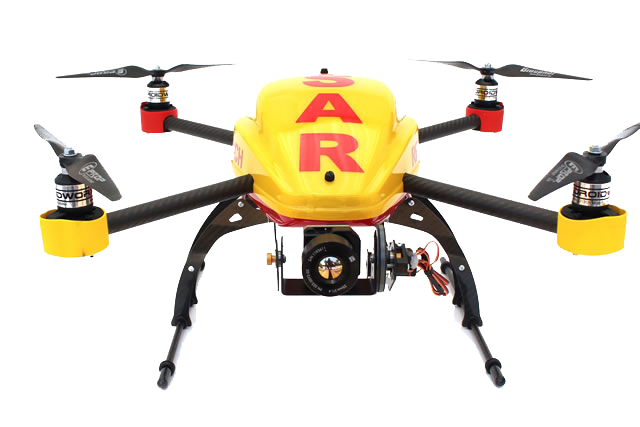
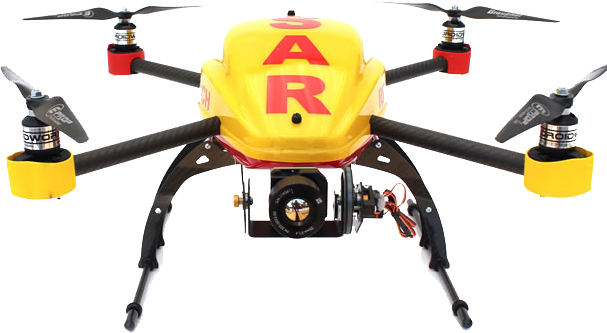
Major Changes - 13-6-17
-Added trackable camera
-Scaled the physics world down to 50% its original size.
-Readjusted density and mass calculations.
- Readjusted controls.
-Added angular air resistance.
-Fixed collisions on UAV model.

diff --git a/core/src/com/mygdx/game/screens/GameScreen.java b/core/src/com/mygdx/game/screens/GameScreen.java
@@ -6,6 +6,7 @@ import com.badlogic.gdx.graphics.Texture;
 import com.badlogic.gdx.graphics.g2d.Sprite;
 import com.badlogic.gdx.graphics.g2d.SpriteBatch;
 import com.badlogic.gdx.math.Vector2;
+import com.badlogic.gdx.math.Vector3;
 import com.badlogic.gdx.physics.box2d.Body;
 import com.badlogic.gdx.physics.box2d.Box2DDebugRenderer;
 import com.badlogic.gdx.physics.box2d.World;
@@ -72,9 +73,9 @@ public class GameScreen extends AbstractScreen{
 		batch = new SpriteBatch();
 		
 		//UAV
-		uavbody = B2DBodyBuilder.createBoxBody(world, camera.viewportWidth / 2, camera.viewportHeight / 2, 100f, 80f);
+		uavbody = B2DBodyBuilder.createBoxBody(world, camera.viewportWidth / 2, camera.viewportHeight / 2, 100f, 64f);
 		uavtexture = SpriteBuilder.createSpriteTexture("UAV.png");
-		uavsprite = SpriteBuilder.createSprite(world, uavbody, batch, uavtexture, 500, 500, 100, 80);
+		uavsprite = SpriteBuilder.createSprite(world, uavbody, batch, uavtexture, 500, 500, 100, 64);
 		
 		//Wall
 		wallbody = B2DBodyBuilder.createBoxBody(world, 400f, 100, 100f, 500f);
@@ -86,18 +87,26 @@ public class GameScreen extends AbstractScreen{
 		//Desk Check
 		System.out.println("Width: " + camera.viewportWidth);
 		System.out.println("Height: " + camera.viewportHeight);
+		
 	}
 	
 	@Override
 	public void update(float delta) {
 		world.step(1/60f, 6, 2);
 		stage.act(delta);
+		this.camera.update();
 	}
 	
 	@Override
 	public void render(float delta){
+		
+		//Camera Tracking
+		camera.position.set(uavbody.getPosition().x*PPM, uavbody.getPosition().y*PPM, 0);
+		
+//		System.out.println(uavbody.getPosition().x*PPM - (GameState.V_WIDTH/2));
+		
 		super.render(delta);
-//		b2dr.render(world, camera.combined.cpy().scl(PPM));
+		b2dr.render(world, camera.combined.cpy().scl(PPM));
 		stage.draw();
 		cm.getKeyboardControls(uavbody);
 //		condm.createCrossWind(box);
@@ -107,8 +116,8 @@ public class GameScreen extends AbstractScreen{
 //		Gdx.gl.glClear(GL20.GL_COLOR_BUFFER_BIT);
 		
 		//Texture Fixtures
-		uavsprite = SpriteBuilder.fixSprite(uavbody, batch, uavsprite, uavbody.getPosition());
-		wallsprite = SpriteBuilder.fixSprite(wallbody, batch, wallsprite, wallbody.getPosition());
+		uavsprite = SpriteBuilder.fixSprite(uavbody, batch, uavsprite, uavbody.getPosition(), camera);
+		wallsprite = SpriteBuilder.fixSprite(wallbody, batch, wallsprite, wallbody.getPosition(), camera);
 		
 		
 		

diff --git a/core/src/com/mygdx/game/utils/SpriteBuilder.java b/core/src/com/mygdx/game/utils/SpriteBuilder.java
@@ -3,22 +3,17 @@ package com.mygdx.game.utils;
 import static com.mygdx.game.utils.B2DConstants.PPM;
 
 import com.badlogic.gdx.Gdx;
+import com.badlogic.gdx.graphics.Camera;
+import com.badlogic.gdx.graphics.OrthographicCamera;
 import com.badlogic.gdx.graphics.Texture;
-import com.badlogic.gdx.graphics.g2d.Batch;
 import com.badlogic.gdx.graphics.g2d.Sprite;
 import com.badlogic.gdx.graphics.g2d.SpriteBatch;
 import com.badlogic.gdx.math.Vector2;
 import com.badlogic.gdx.physics.box2d.Body;
 import com.badlogic.gdx.physics.box2d.World;
 import com.mygdx.game.GameState;
-import com.mygdx.game.screens.AbstractScreen;
 
-public class SpriteBuilder extends AbstractScreen{
-
-	public SpriteBuilder(GameState app) {
-		super(app);
-		// TODO Auto-generated constructor stub
-	}
+public class SpriteBuilder{
 
 	public static void createObject (World world, Sprite sprite, SpriteBatch batch, Texture texture, String img, int x, int y, int width, int height){
 		Body body;
@@ -49,44 +44,15 @@ public class SpriteBuilder extends AbstractScreen{
 
 	}
 	
-	public static Sprite fixSprite (Body body, SpriteBatch batch, Sprite sprite, Vector2 pos) {
+	public static Sprite fixSprite (Body body, SpriteBatch batch, Sprite sprite, Vector2 pos, OrthographicCamera camera) {
 		
 		//Set Sprite Position
-		sprite.setPosition((pos.x*PPM)-sprite.getWidth()/2, (pos.y*PPM)-sprite.getHeight()/2);
+		sprite.setPosition(((pos.x*PPM)-sprite.getWidth()/2) - (camera.position.x) + GameState.V_WIDTH/2, 
+				((pos.y*PPM)-sprite.getHeight()/2) - (camera.position.y) + GameState.V_HEIGHT/2);
 		
 		sprite.setRotation((float) (body.getAngle()*180/Math.PI));
 		
 		return sprite;
 	}
 
-	@Override
-	public void show() {
-		// TODO Auto-generated method stub
-		
-	}
-
-	@Override
-	public void pause() {
-		// TODO Auto-generated method stub
-		
-	}
-
-	@Override
-	public void resume() {
-		// TODO Auto-generated method stub
-		
-	}
-
-	@Override
-	public void hide() {
-		// TODO Auto-generated method stub
-		
-	}
-
-	@Override
-	public void update(float delta) {
-		// TODO Auto-generated method stub
-		
-	}
-	
 }

diff --git a/core/src/com/mygdx/game/managers/ControlsManager.java b/core/src/com/mygdx/game/managers/ControlsManager.java
@@ -1,5 +1,6 @@
 package com.mygdx.game.managers;
 
+import static com.mygdx.game.utils.B2DConstants.PPM;
 import com.badlogic.gdx.Gdx;
 import com.badlogic.gdx.Input;
 import com.badlogic.gdx.math.Vector2;
@@ -14,22 +15,22 @@ public class ControlsManager {
 		double xforce = Math.sin(-body.getAngle());
 		
 		if (Gdx.input.isKeyPressed(Input.Keys.UP)) {
-			body.applyForceToCenter(new Vector2((float) (250*xforce), (float) (250 * yforce)), true);
+			body.applyForceToCenter(new Vector2((float) (150*xforce), (float) (150 * yforce)), true);
 
 		}
 		
 		if (Gdx.input.isKeyPressed(Input.Keys.DOWN)) {
-			body.applyForceToCenter(new Vector2((float) (-250*xforce), (float) (-250 * yforce)), true);
+			body.applyForceToCenter(new Vector2((float) (-150*xforce), (float) (-150 * yforce)), true);
 			
 		}
 		
 		if (Gdx.input.isKeyPressed(Input.Keys.LEFT)) {
-			body.applyAngularImpulse(0.8f, true);
+			body.applyAngularImpulse(0.5f, true);
 			
 		}
 		
 		if (Gdx.input.isKeyPressed(Input.Keys.RIGHT)) {
-			body.applyAngularImpulse(-0.8f, true);
+			body.applyAngularImpulse(-0.5f, true);
 
 		}
 	}

diff --git a/core/src/com/mygdx/game/utils/B2DBodyBuilder.java b/core/src/com/mygdx/game/utils/B2DBodyBuilder.java
@@ -24,8 +24,8 @@ public final class B2DBodyBuilder {
 		bDef.type = BodyDef.BodyType.DynamicBody;
 		bDef.fixedRotation = false;
 		bDef.position.set(x / PPM, y / PPM);
-		bDef.angularDamping = 1.0f;
-		
+		bDef.angularDamping = 1.5f;
+							
 		//Body Creation
 		body = world.createBody(bDef);
 		
@@ -36,7 +36,7 @@ public final class B2DBodyBuilder {
 		//Fixture Definition
 		FixtureDef fDef = new FixtureDef();
 		fDef.shape = shape;
-		fDef.density = 1.0f;
+		fDef.density = (float) ((Math.pow(PPM, 2)*1)/1232);
 		fDef.friction = 0.8f;
 		fDef.restitution = 0.1f;
 		

diff --git a/core/src/com/mygdx/game/managers/ConditionsManager.java b/core/src/com/mygdx/game/managers/ConditionsManager.java
@@ -25,6 +25,7 @@ public class ConditionsManager {
 		float resistance = (float) (0.02*body.getLinearVelocity().len());
 		
 		body.setLinearDamping(resistance);
-		System.out.println(resistance);
+		body.setAngularDamping(1.5f + 5*resistance);
+		
 	}
 }

diff --git a/core/src/com/mygdx/game/utils/B2DConstants.java b/core/src/com/mygdx/game/utils/B2DConstants.java
@@ -4,6 +4,6 @@ public final class B2DConstants {
 	
 	private B2DConstants (){}
 
-	public static float PPM = 32f;
+	public static float PPM = 64f;
 	
 }
